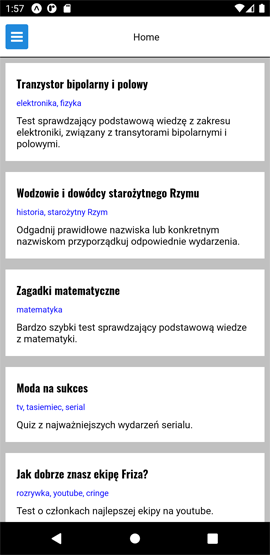
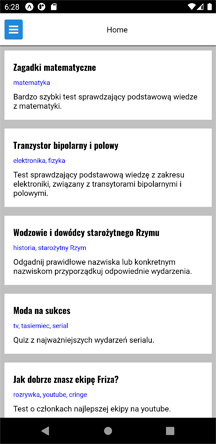
Saving tests locally, random test: quiz picker, order and answers, internet connection checker

diff --git a/components/CustomDrawerContent.js b/components/CustomDrawerContent.js
@@ -1,7 +1,12 @@
 import {DrawerContentScrollView, DrawerItem, DrawerItemList} from "@react-navigation/drawer";
 import {Image, StyleSheet, Text, View} from "react-native";
+import _ from 'lodash'
+import Icon from 'react-native-vector-icons/FontAwesome';
 import img from "../assets/quiz-img.png";
 import * as React from "react";
+import {Button} from "react-native-elements";
+import {getData, storeData} from "../service/AsyncStorage";
+import NetInfo from "@react-native-community/netinfo";
 
 export default class CustomDrawerContent extends React.Component {
 
@@ -10,21 +15,44 @@ export default class CustomDrawerContent extends React.Component {
     }
 
     componentDidMount() {
+        this.fetchList();
+    }
+
+    fetchList = () => {
         fetch(`http://tgryl.pl/quiz/tests`)
             .then(res => res.json())
+            .then(quizList => storeData("database", JSON.stringify(quizList)));
+
+        getData('database')
+            .then(data => JSON.parse(data))
             .then(quizList => {
                 this.setState({
                     ...this.state,
-                    quizList
+                    quizList: _.shuffle(quizList)
                 });
-            })
+            });
+    }
+
+    randomPick = () => {
+        const { quizList } = this.state;
+        let { navigation } = this.props;
+
+        const id = quizList[Math.floor(Math.random() * quizList.length)].id;
+
+        navigation.navigate('Quiz', {
+            id
+        });
     }
 
     handleClickQuiz = (id) => {
         let {navigation} = this.props;
-        navigation.navigate('Quiz', {
-            id
-        });
+        NetInfo.fetch().then(({isConnected}) => {
+            if(isConnected) {
+                navigation.navigate('Quiz', {
+                    id
+                });
+            }
+        })
     }
 
     render() {
@@ -33,6 +61,22 @@ export default class CustomDrawerContent extends React.Component {
                 <View style={styles.container}>
                     <Text style={styles.text}>Quiz App</Text>
                     <Image style={styles.image} source={img}/>
+                    <View style={styles.buttonsContainer}>
+                        <View style={styles.buttonsContainerButton}>
+                            <Button icon={ <Icon
+                                name="random"
+                                size={20}
+                                color="white"
+                            /> } onPress={this.randomPick} />
+                        </View>
+                        <View style={styles.buttonsContainerButton}>
+                            <Button icon={ <Icon
+                                name="cloud-download"
+                                size={20}
+                                color="white"
+                            /> } onPress={this.fetchList} />
+                        </View>
+                    </View>
                 </View>
                 <DrawerItemList {...this.props} />
                 <View style={styles.anotherList}>
@@ -68,5 +112,16 @@ const styles = StyleSheet.create({
     },
     anotherList: {
         borderTopWidth: 1
+    },
+    buttonsContainerButton: {
+        flex: 1,
+        marginVertical: 6,
+        marginHorizontal: 12
+    },
+    buttonsContainer: {
+        flex: 1,
+        flexDirection: "row",
+        justifyContent: "center",
+        alignItems: "center"
     }
 });

diff --git a/components/navigation/Header.js b/components/navigation/Header.js
@@ -1,22 +1,43 @@
 import {StatusBar, StyleSheet, Text, View} from "react-native";
 import { Button } from 'react-native-elements';
+import NetInfo from '@react-native-community/netinfo';
 import Icon from 'react-native-vector-icons/FontAwesome';
 import * as React from "react";
 
-function Header(props) {
-    let {navigation, title} = props;
-    return (
-        <View style={styles.header}>
-            <StatusBar style="auto"/>
+class Header extends React.Component {
 
-            <Button style={styles.headerButton} icon={ <Icon
-                name="bars"
-                size={20}
-                color="white"
-            /> }  onPress={() => navigation.toggleDrawer()}/>
-            <Text style={styles.headerText}>{title}</Text>
-        </View>
-    );
+    state = {
+        isNetwork: false
+    }
+
+    componentDidMount() {
+        NetInfo.addEventListener(state => {
+            this.setState({
+                isNetwork: state.isConnected
+            })
+        });
+    }
+
+    render() {
+        let {navigation, title} = this.props;
+        return (
+            <>
+                <View style={styles.header}>
+                    <StatusBar style="auto"/>
+
+                    <Button style={styles.headerButton} icon={<Icon
+                        name="bars"
+                        size={20}
+                        color="white"
+                    />} onPress={() => navigation.toggleDrawer()}/>
+                    <Text style={styles.headerText}>{title}</Text>
+                </View>
+                {!this.state.isNetwork && <View style={styles.internetError}>
+                    <Text style={styles.internetErrorText}>Brak internetu</Text>
+                </View>}
+            </>
+        );
+    }
 }
 
 const styles = StyleSheet.create({
@@ -44,6 +65,16 @@ const styles = StyleSheet.create({
     container: {
         flex: 0.92,
         backgroundColor: "silver"
+    },
+
+    internetError: {
+        backgroundColor: "red"
+    },
+
+    internetErrorText: {
+        textAlign: "center",
+        color: "white",
+        padding: 8
     }
 });
 

diff --git a/views/HomeScreen.js b/views/HomeScreen.js
@@ -1,6 +1,9 @@
 import * as React from 'react';
 import {StyleSheet, Text, View, ScrollView, SafeAreaView, Button, TouchableOpacity} from "react-native";
+import _ from 'lodash'
 import Header from "../components/navigation/Header";
+import {getData} from "../service/AsyncStorage";
+import NetInfo from "@react-native-community/netinfo";
 
 class HomeScreen extends React.Component {
 
@@ -11,14 +14,23 @@ class HomeScreen extends React.Component {
     }
 
     componentDidMount() {
-        fetch(`http://tgryl.pl/quiz/tests`)
+       /* fetch(`http://tgryl.pl/quiz/tests`)
             .then(res => res.json())
             .then(quizList => {
                 this.setState({
                     ...this.state,
-                    quizList
+                    quizList: _.shuffle(quizList)
                 });
-            })
+            })*/
+
+        getData('database')
+            .then(data => JSON.parse(data))
+            .then(quizList => {
+                this.setState({
+                    ...this.state,
+                    quizList: _.shuffle(quizList)
+                });
+            });
     }
 
 
@@ -36,9 +48,13 @@ class HomeScreen extends React.Component {
 
     handleClick = (id) => {
         let {navigation} = this.props;
-        navigation.navigate('Quiz', {
-            id
-        });
+        NetInfo.fetch().then(({isConnected}) => {
+            if(isConnected) {
+                navigation.navigate('Quiz', {
+                    id
+                });
+            }
+        })
     }
 
     render() {

diff --git a/views/QuizScreen.js b/views/QuizScreen.js
@@ -1,5 +1,6 @@
 import * as React from 'react';
 import {StyleSheet, Text, TouchableOpacity, View, Animated, Button, ToastAndroid} from "react-native";
+import _ from 'lodash'
 import Header from "../components/navigation/Header";
 import {CountdownCircleTimer} from "react-native-countdown-circle-timer";
 import {Input} from "react-native-elements";
@@ -141,7 +142,7 @@ class QuizScreen extends React.Component {
             .then(data => {
                 this.setState({
                     ...this.state,
-                    tasks: data.tasks,
+                    tasks: _.shuffle(data.tasks),
                     id: data.id,
                     name: data.name,
                     tags: data.tags
@@ -255,7 +256,7 @@ class QuizScreen extends React.Component {
                                 <View style={styles.answers}>
                                     {this.state.task.answers.map(({content}, index) => {
                                         return (
-                                            <TouchableOpacity style={styles.answer} onPress={() => this.markTheAnswer(index)}>
+                                            <TouchableOpacity key={index} style={styles.answer} onPress={() => this.markTheAnswer(index)}>
                                                 <Text style={styles.answerText}>{content}</Text>
                                             </TouchableOpacity>
                                         )

diff --git a/App.js b/App.js
@@ -42,13 +42,17 @@ export default class App extends React.Component {
     }
 
     componentDidMount() {
-        getData()
-            .then(data => data !== 'MODALXD')
+        getData('RULES')
+            .then(data => data !== 'true')
             .then(data => this.setState({ modalVisible: data }));
+
+        fetch(`http://tgryl.pl/quiz/tests`)
+            .then(res => res.json())
+            .then(quizList => storeData("database", JSON.stringify(quizList)));
     }
 
     handleAcceptRules = () => {
-        storeData('MODALXD')
+        storeData('RULES', 'true')
             .then(() => this.setState({ modalVisible: false }));
     }
 

diff --git a/service/AsyncStorage.js b/service/AsyncStorage.js
@@ -1,16 +1,16 @@
 import AsyncStorage from "@react-native-async-storage/async-storage";
 
-export const storeData = async (value) => {
+export const storeData = async (name, value) => {
     try {
-        await AsyncStorage.setItem('@storage_Key', value)
+        await AsyncStorage.setItem(name, value)
     } catch (e) {
         // saving error
     }
 }
 
-export const getData = async () => {
+export const getData = async (name) => {
     try {
-        const value = await AsyncStorage.getItem('@storage_Key')
+        const value = await AsyncStorage.getItem(name)
         if(value !== null) {
             return value;
         }
